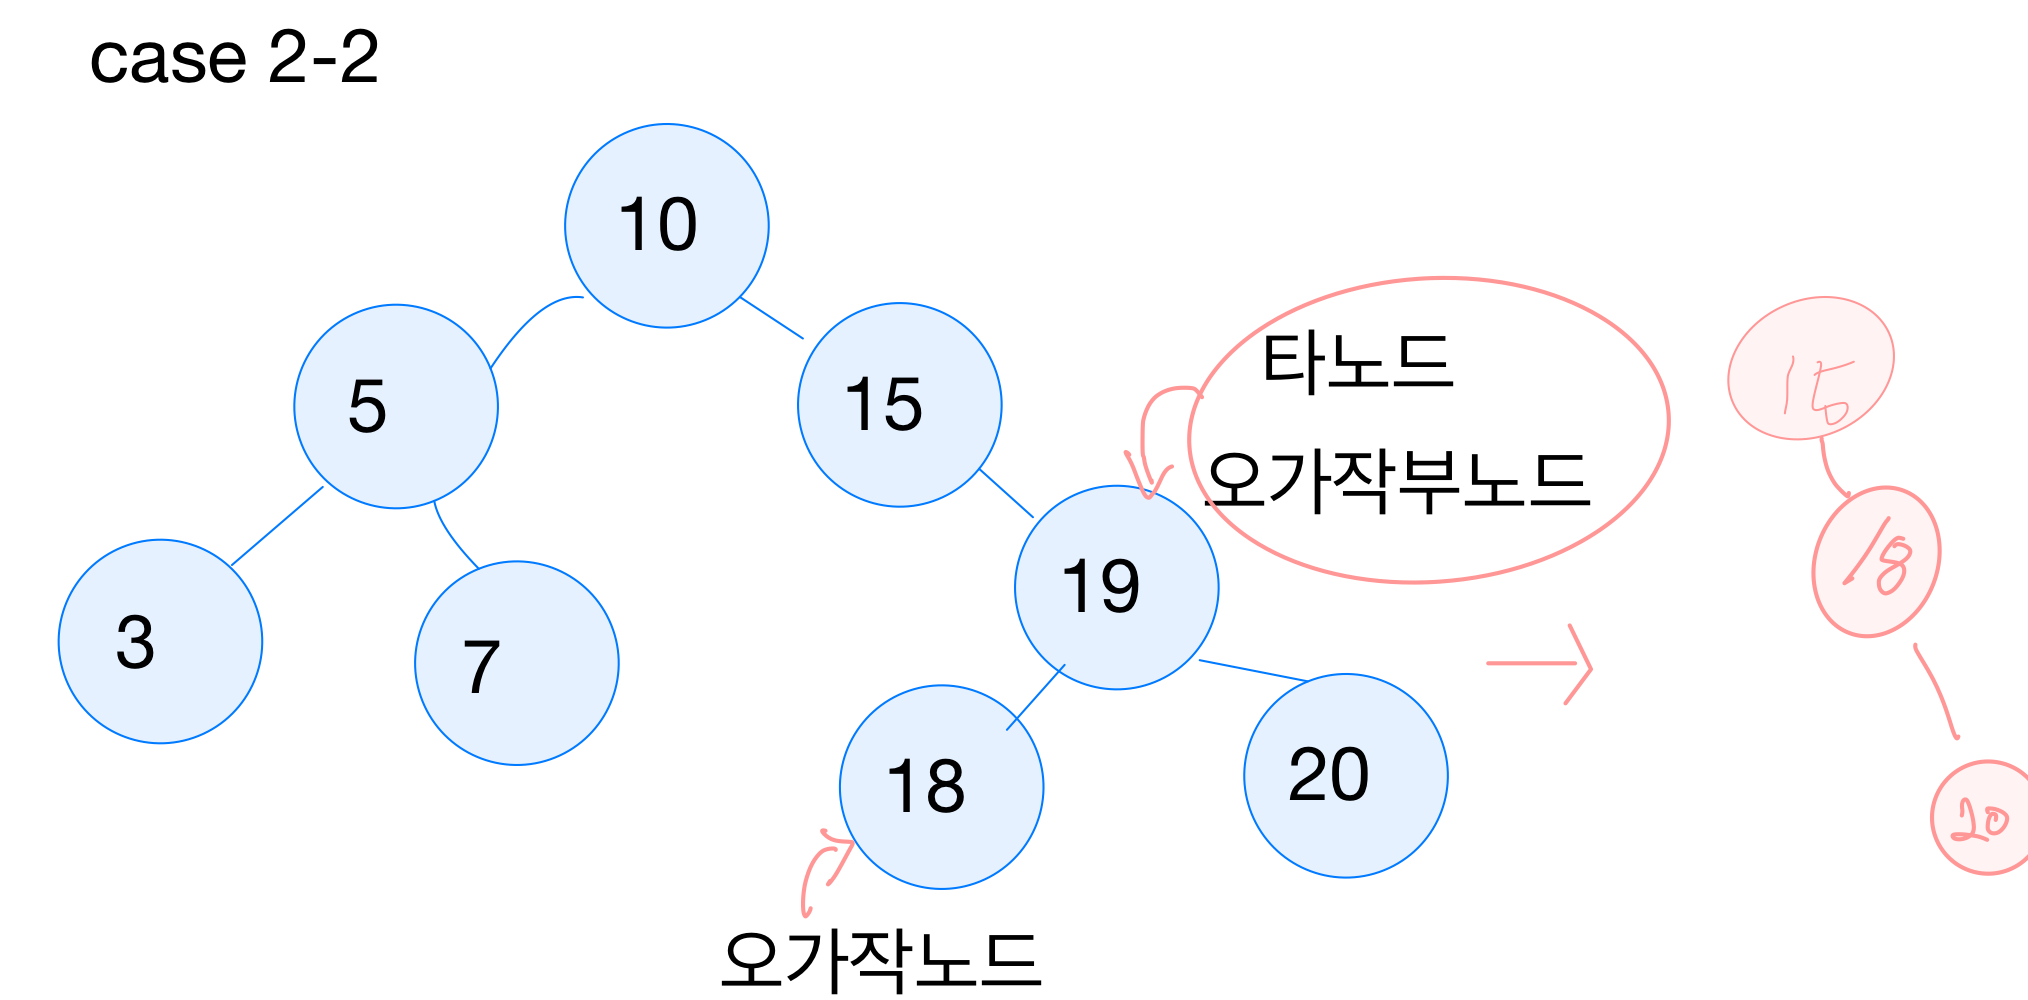
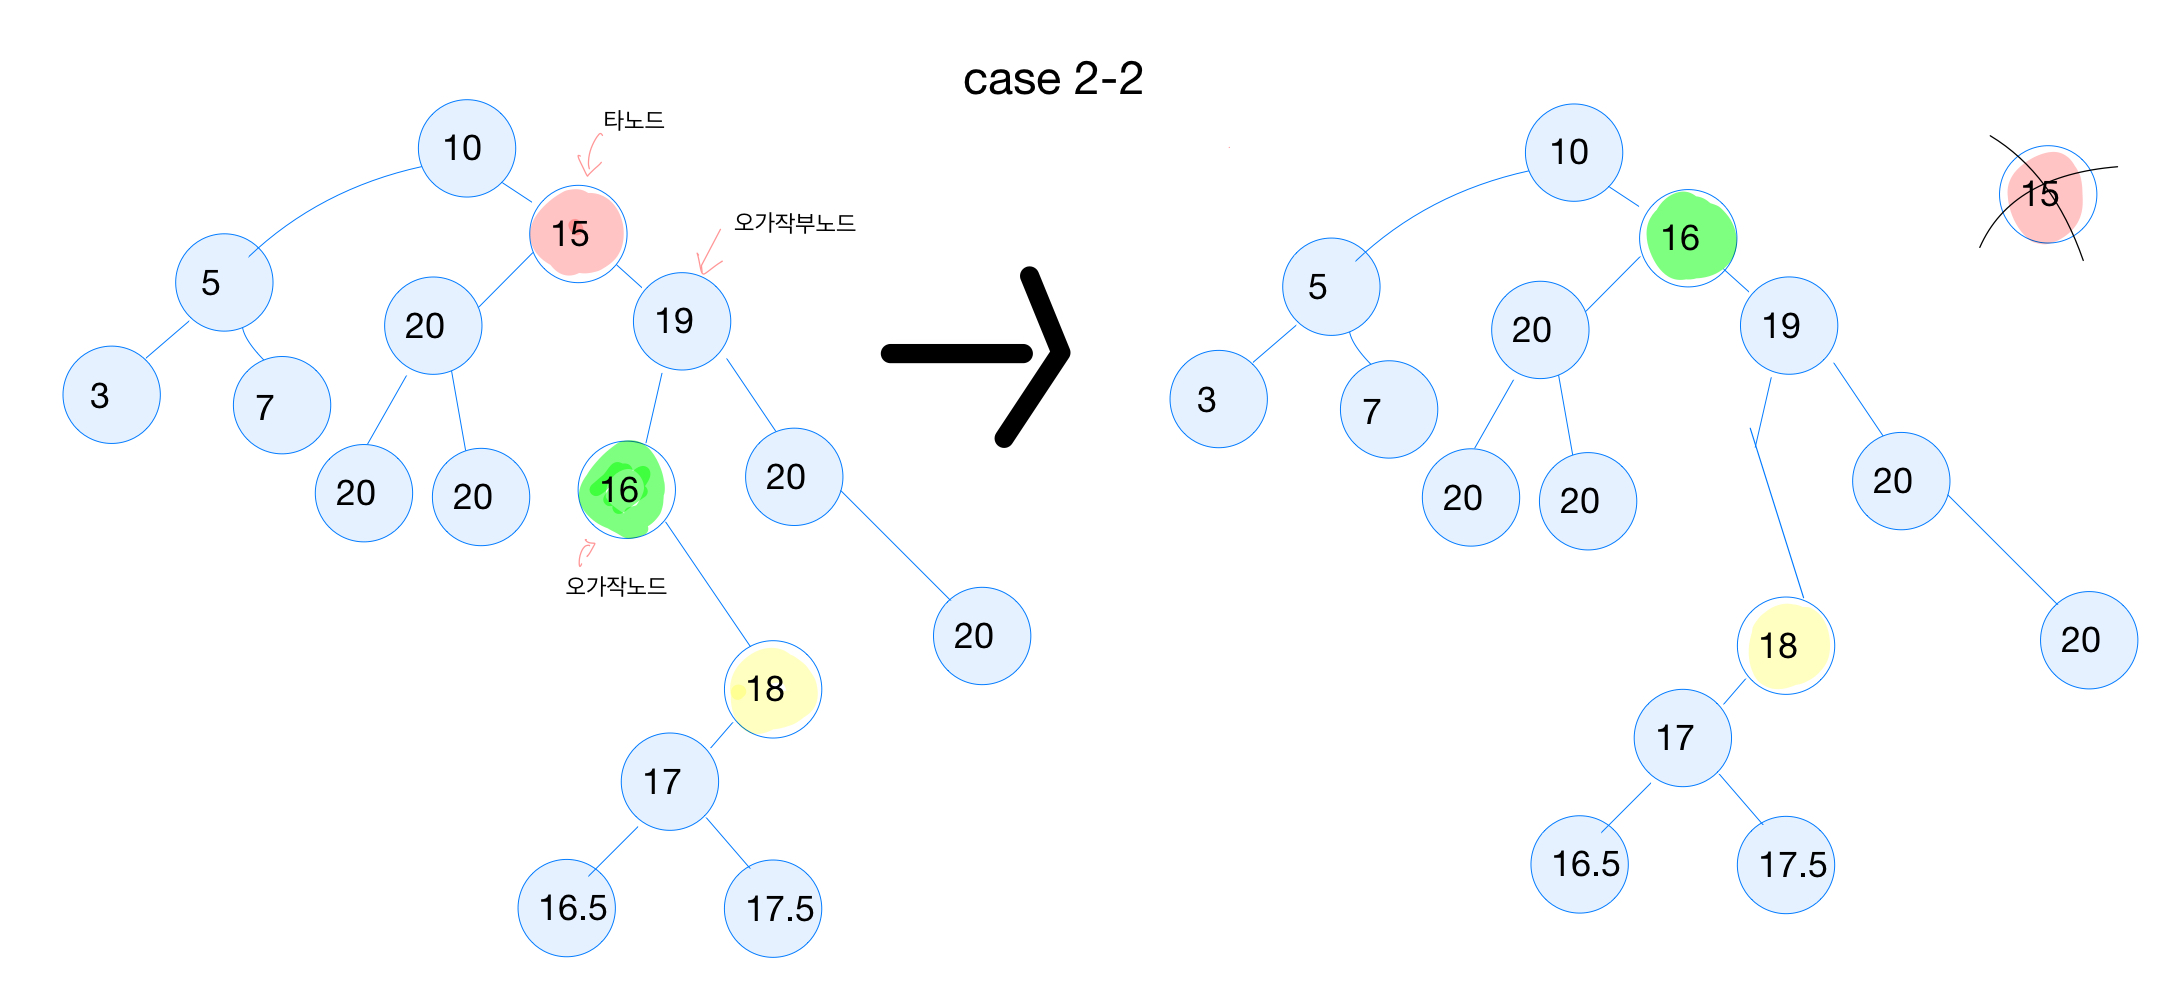
사진 변경

diff --git a/_includes/toc.html b/_includes/toc.html
@@ -1,6 +1,6 @@
 {% assign enable_toc = false %}
 {% if site.toc and page.toc %}
-  {% if page.content contains '<h2' or page.content contains '<h3' %}
+  {% if page.content contains '<h2' or page.content contains '<h3' or page.content contains '<h1' or page.content contains '<h4'%}
     {% assign enable_toc = true %}
   {% endif %}
 {% endif %}

diff --git a/_posts/2022-09-20-트리자료구조.md b/_posts/2022-09-20-트리자료구조.md
@@ -22,7 +22,6 @@ class NodeMgmt:
     def __init__(sel, value):
         self.head = head
 ```
-
 ## 삽입
 - case 1 : 삽입하는 데이터 값이 현재 노드의 데이터 값 보다 작고 왼쪽 값이 비어 있으면 삽입
 - case 2 : 삽입하는 데이터 값이 현재 노드의 테이터 값 보다 크고 오른쪽 값이 비어 있으면 삽입
@@ -60,10 +59,10 @@ class NodeMgmt:
                     break
 ```
 
-## 삭제
-
-- 간략한 설명을 먼저하자면 빼고 이어주면 된다.
-- 하지만 가지가 두 개라면 생각
+## <span style="font-size : 1.3em; color:yellow;">삭제</span>
+- 자식 노드가 없다면 그냥 삭제
+- 자식 노드가 하나라면 빼고 이어주면 된다.
+- **하지만 가지가 두 개라면?!**<span style="font-size : 1.3em; color : yellow;">오른쪽 자식노드의 가장 작은 놈으로 바꾸기!!</span>(왼쪽 가장 큰 노드로도 가능)
 
 **설명을 위한 지칭**
 
@@ -104,7 +103,7 @@ class NodeMgmt:
 
 <!-- ![2차원 예시](/images/트리케이스1.jpeg) -->
 <img src="/images/트리케이스2-1.jpeg" width="600" />
-<img src="/images/트리케이스2-2.jpeg" width="600" />
+<img src="/images/트리케이스2-2.jpeg" width="1000" />
 
 ```python
 class Node:
